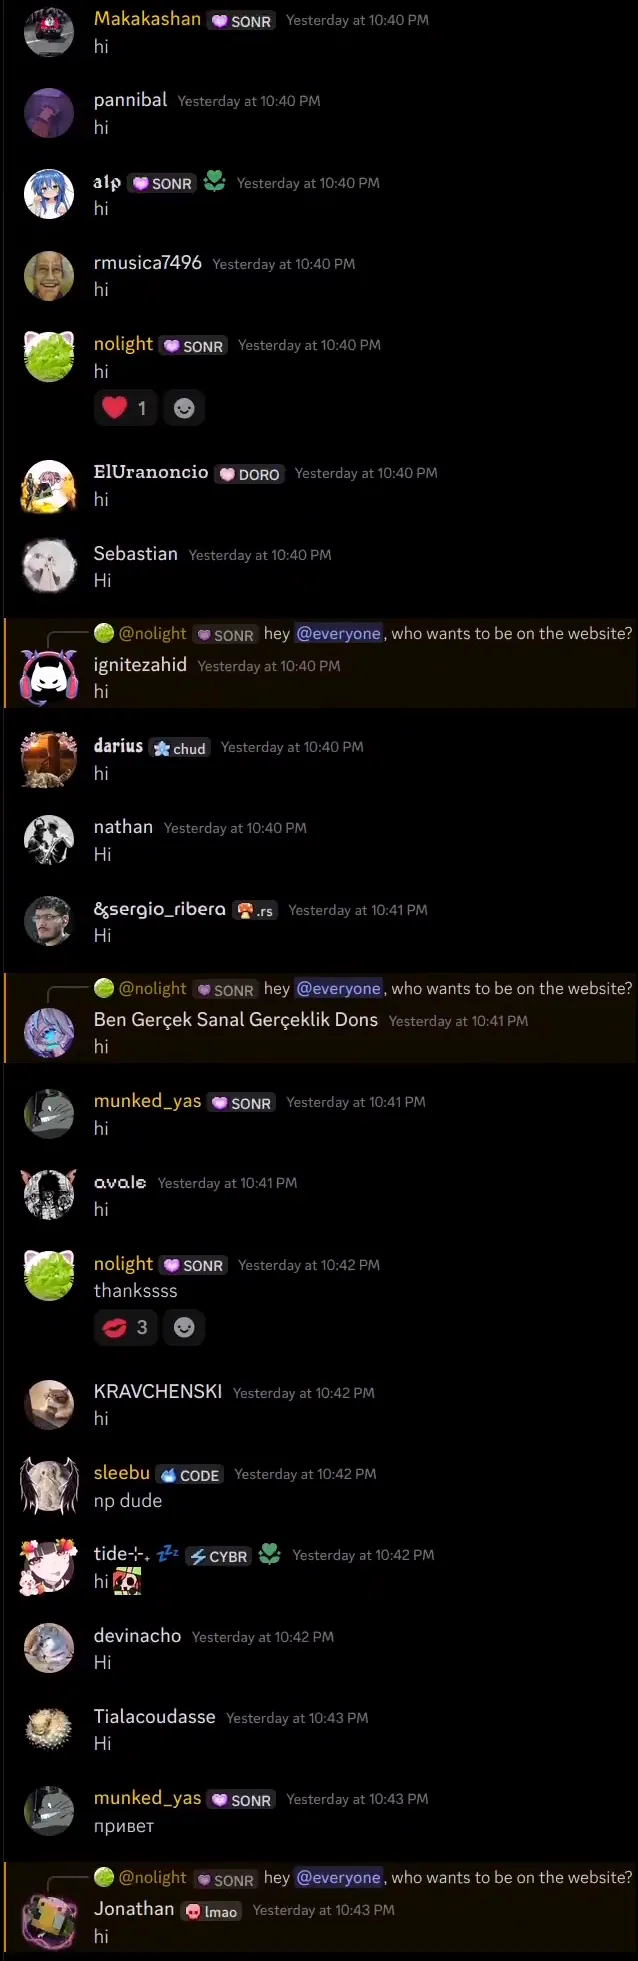
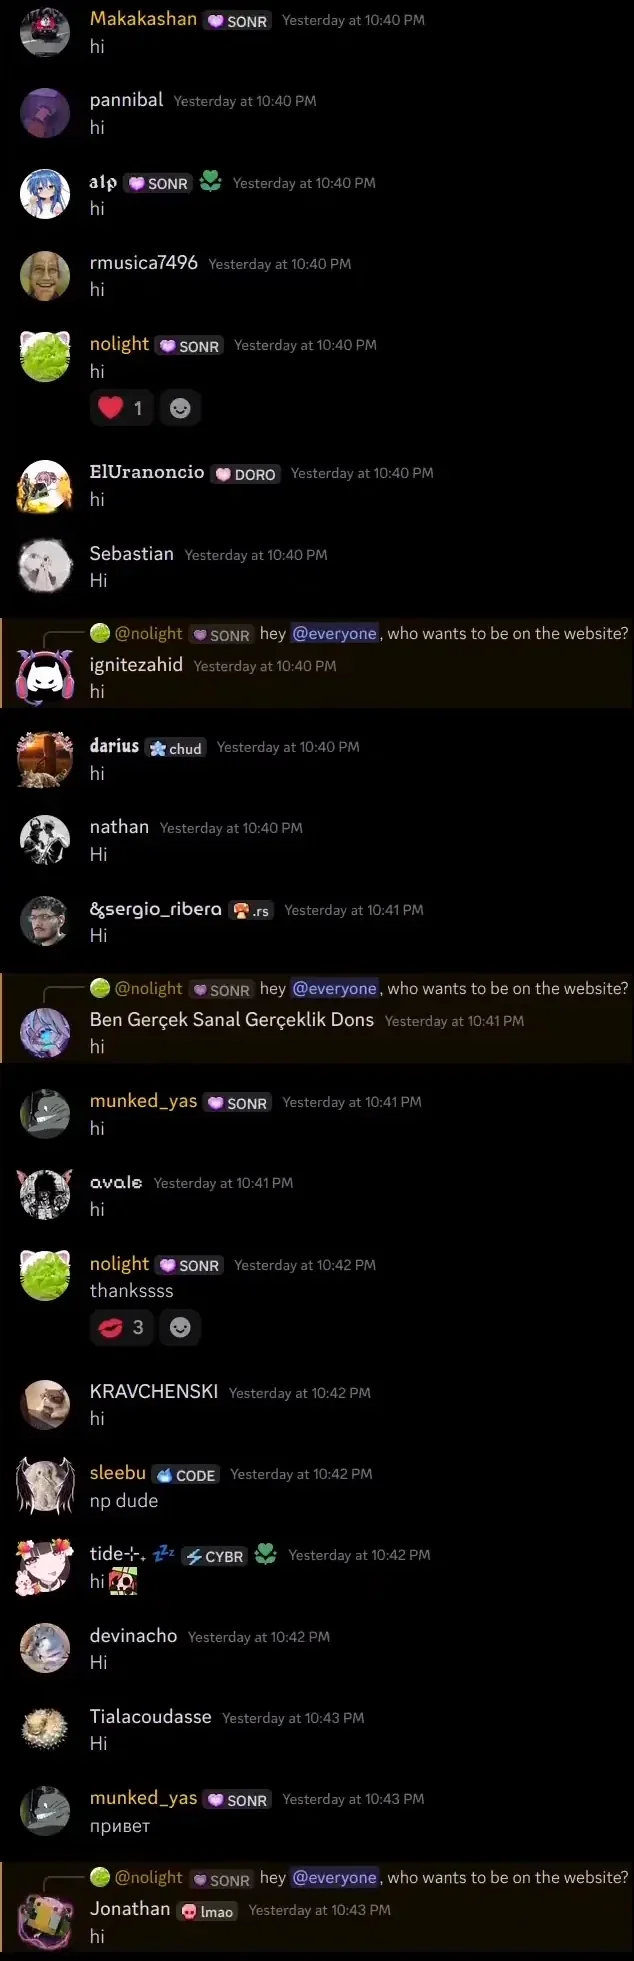
fix: cut the baked-in edge off the chat art

diff --git a/src/lib/components/Community.svelte b/src/lib/components/Community.svelte
@@ -45,11 +45,11 @@
 				</div>
 
 				<div class="clip" aria-hidden="true">
-					<img class="topic" src="/hi-head.webp" width="638" height="56" alt="" />
+					<img class="topic" src="/hi-head.webp" width="634" height="56" alt="" />
 					<div class="feed">
 						<div class="reel">
-							<img src="/hi-chat.webp" width="638" height="1961" alt="" />
-							<img src="/hi-chat.webp" width="638" height="1961" alt="" />
+							<img src="/hi-chat.webp" width="634" height="1961" alt="" />
+							<img src="/hi-chat.webp" width="634" height="1961" alt="" />
 						</div>
 					</div>
 				</div>
